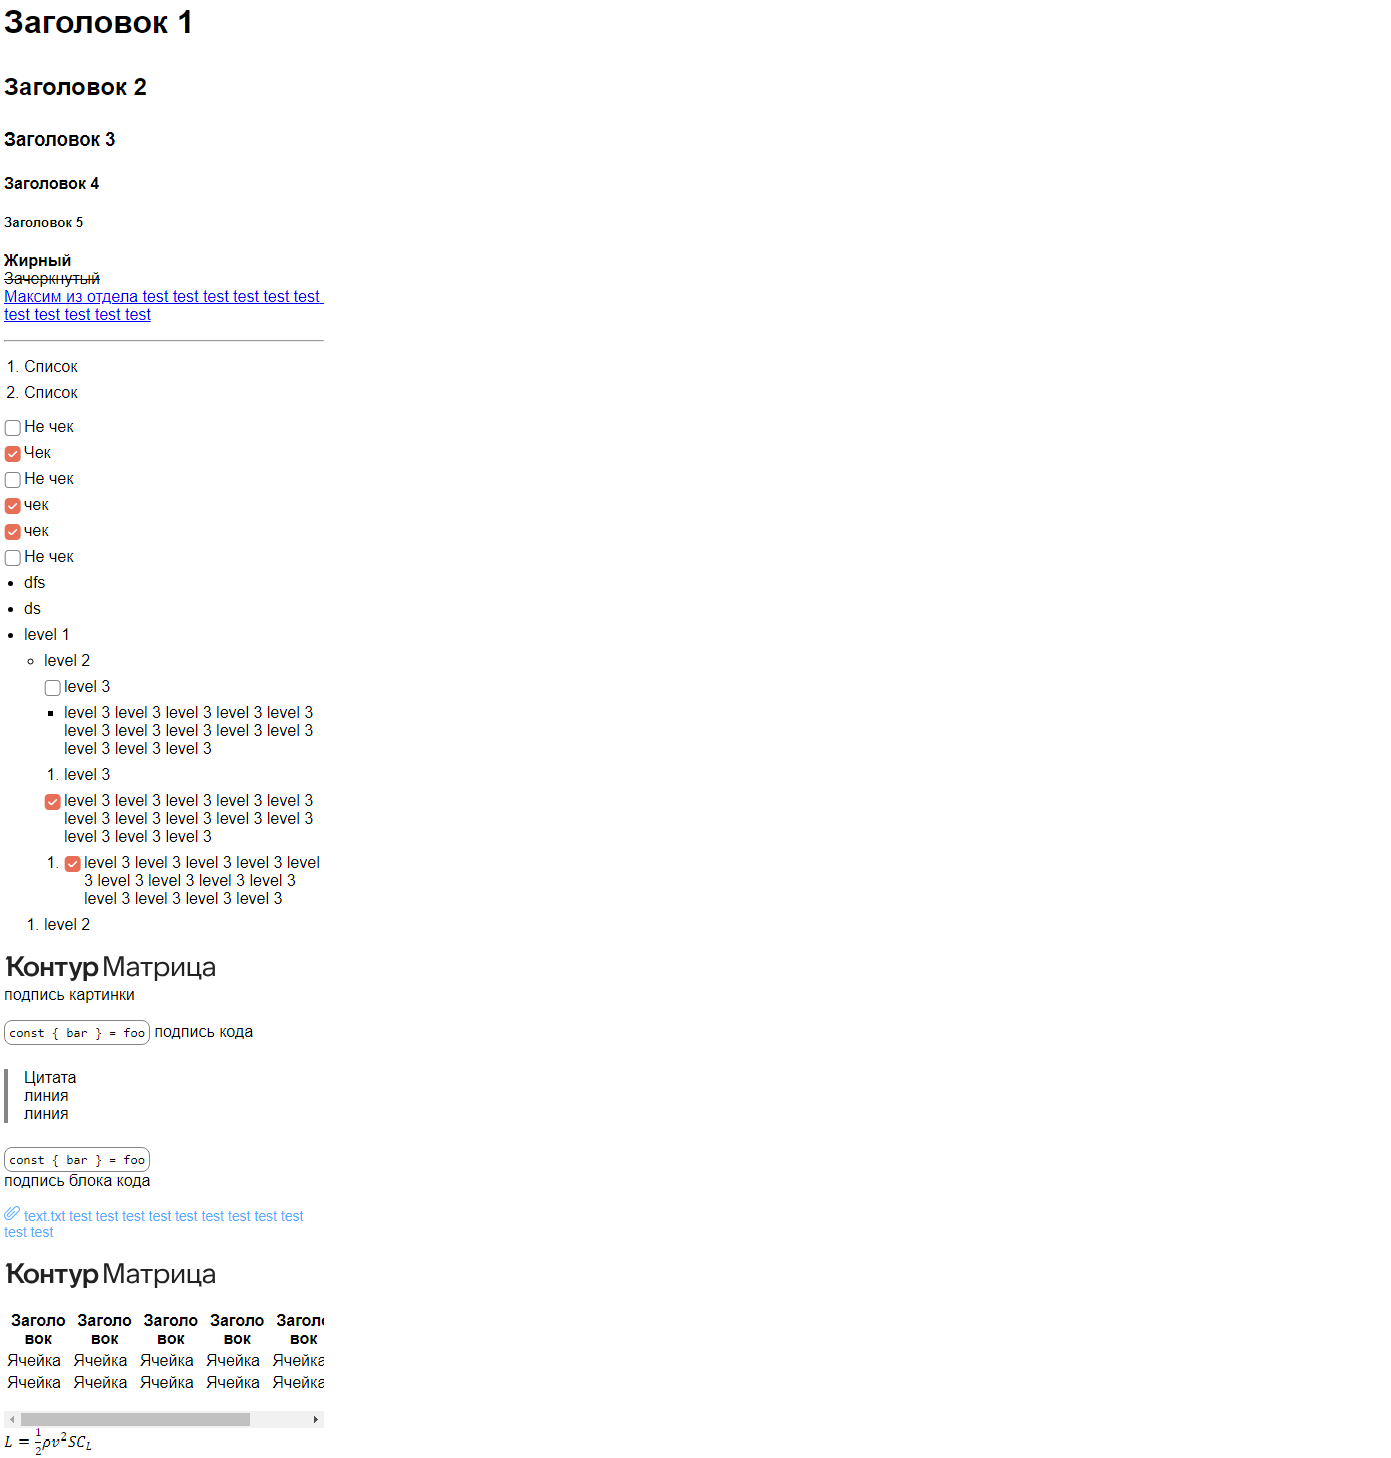
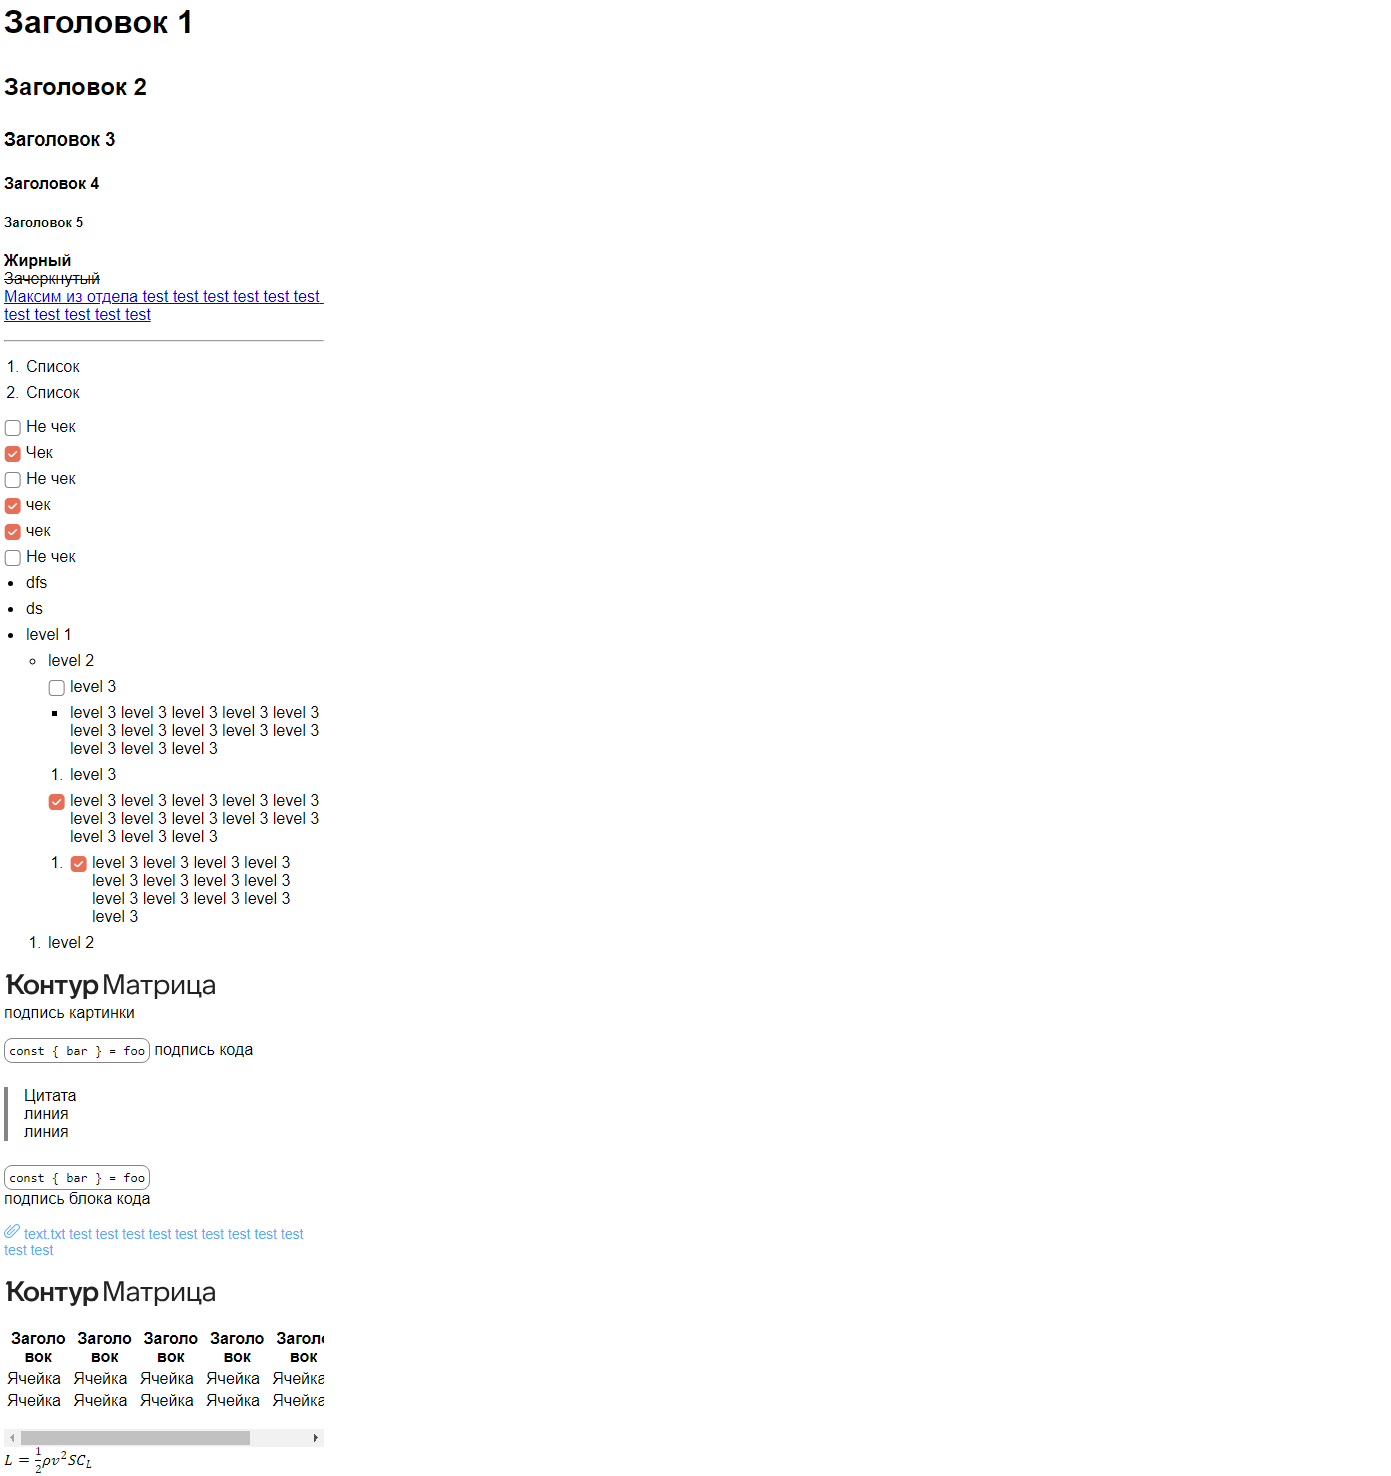
Change li padding

Changed region(s): [[0.0, 0.0926, 0.2473, 0.9568], [0.0309, 0.9877, 0.0618, 1.0], [0.0, 0.0, 0.0309, 0.0309]]

diff --git a/src/MarkdownViewer/MarkdownViewer.tsx b/src/MarkdownViewer/MarkdownViewer.tsx
@@ -18,10 +18,11 @@ import {
   FileButtonWrapper,
   FileName,
   getListStyle,
-  ListItem,
+  CheckListItem,
   Paragraph,
   VisuallyHidden,
   Wrapper,
+  ListItem,
 } from './MarkdownViewer.styles';
 import { CustomComponentsProps, MarkdownInputProps, MarkdownLinkProps, MarkdownLiProps } from './types';
 import { useFileLogic } from '../Markdown/Files/Files.logic';
@@ -103,9 +104,7 @@ export const MarkdownViewer: FC<MarkdownViewerProps> = ({
   function renderListItem(props: MarkdownLiProps) {
     const children = props.children;
 
-    if (props.ordered) return <li>{children}</li>;
-
-    return checkIfChecklistItem(props) ? getCheckListItem(children) : <li>{children}</li>;
+    return checkIfChecklistItem(props) ? <CheckListItem>{children}</CheckListItem> : <ListItem>{children}</ListItem>;
   }
 
   function renderLink(props: MarkdownLinkProps) {
@@ -133,10 +132,6 @@ export const MarkdownViewer: FC<MarkdownViewerProps> = ({
 
   function checkIfChecklistItem(props: MarkdownLiProps) {
     return props.checked !== null || props.className === 'task-list-item';
-  }
-
-  function getCheckListItem(children: ReactNode) {
-    return <ListItem>{children}</ListItem>;
   }
 
   function renderInput(props: MarkdownInputProps) {

diff --git a/src/MarkdownViewer/MarkdownViewer.styles.ts b/src/MarkdownViewer/MarkdownViewer.styles.ts
@@ -126,11 +126,15 @@ export const Wrapper = styled.div`
   }
 `;
 
-export const ListItem = styled.li`
+export const CheckListItem = styled.li`
   list-style: none;
   margin-left: 0 !important;
-  padding-inline-start: 20px;
+  padding-inline-start: 22px;
   position: relative;
+`;
+
+export const ListItem = styled.li`
+  padding-inline-start: 2px;
 `;
 
 export const Paragraph = styled.p`
